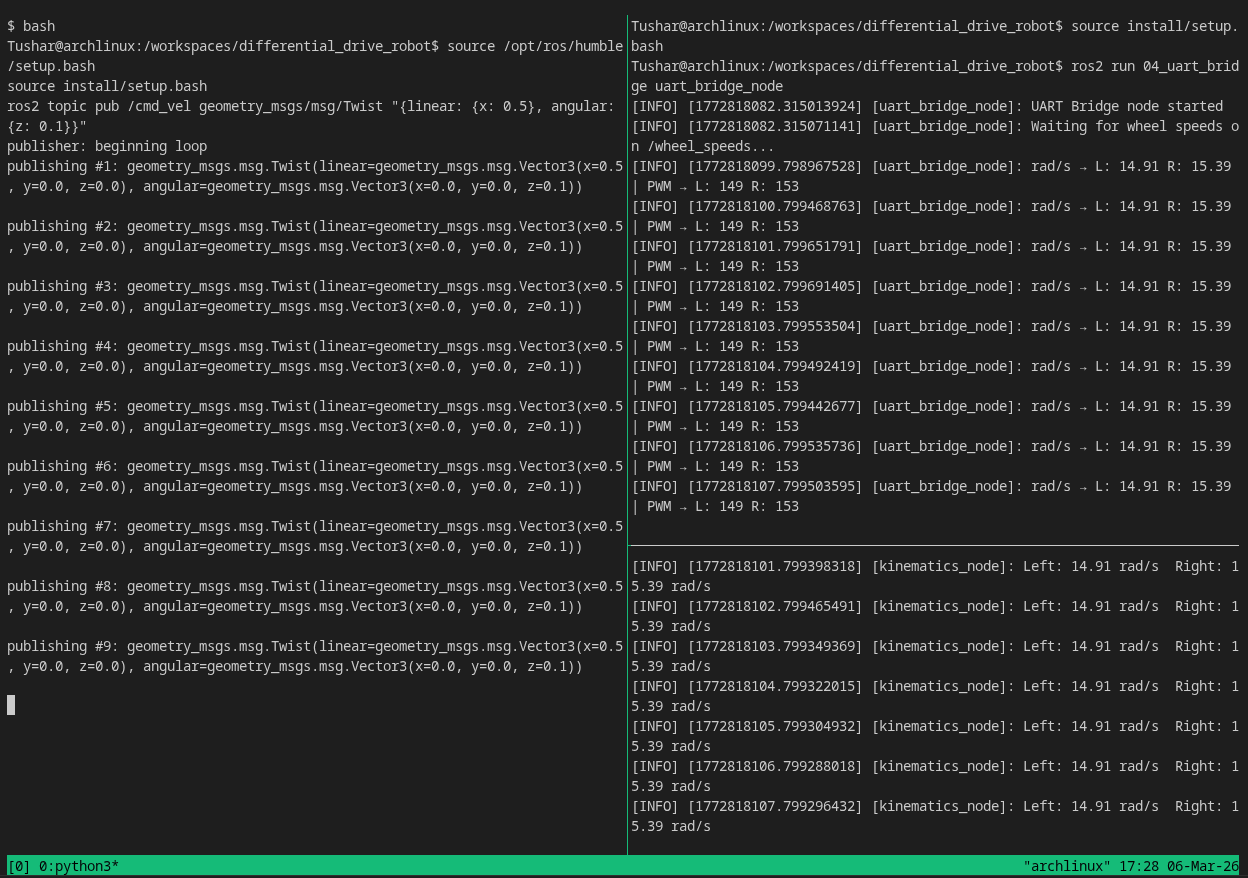
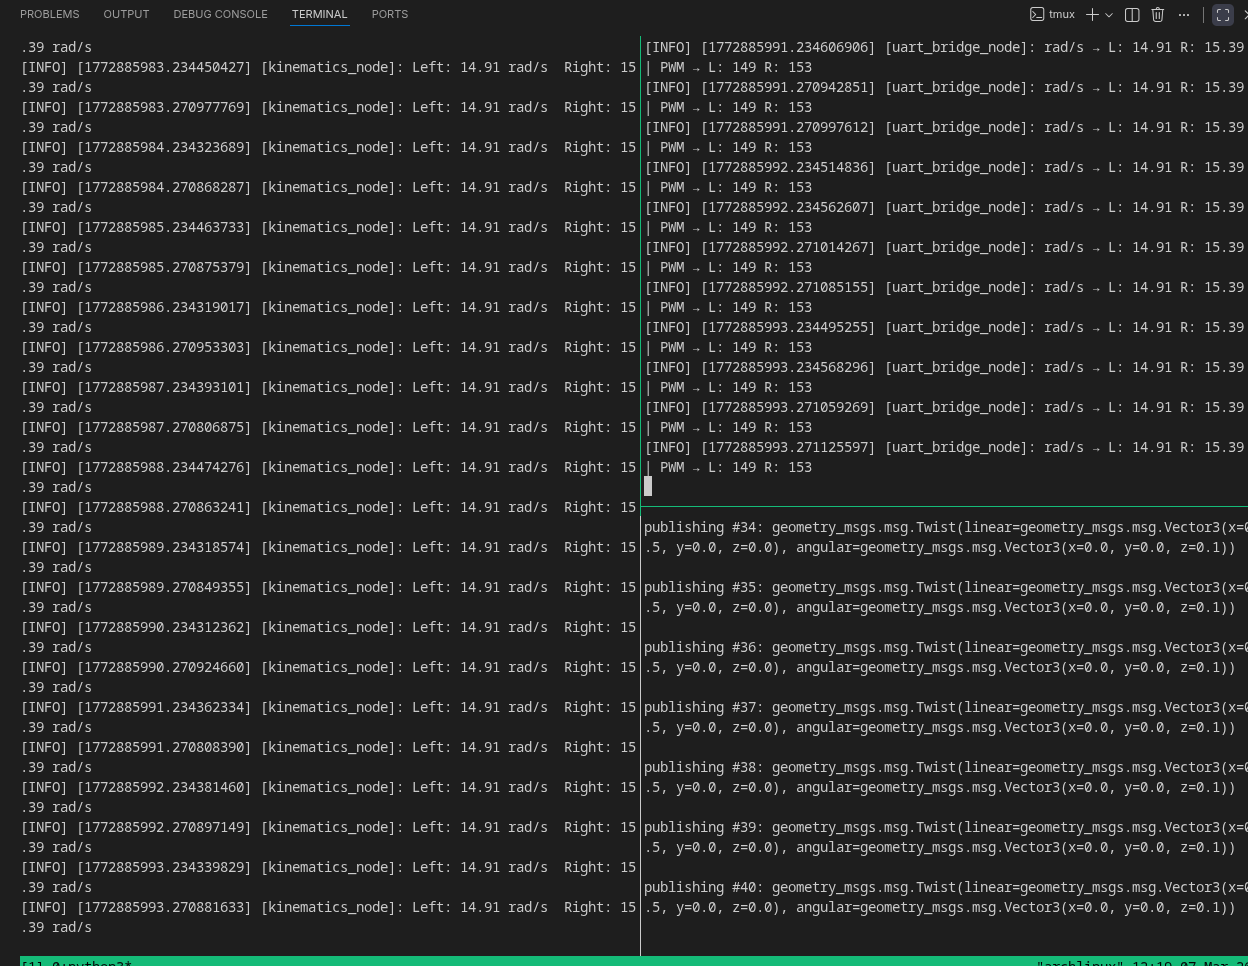
updated uart node

Changed region(s): [[0.0, 0.0, 1.0, 1.0], [0.9688, 0.4613, 1.0, 0.492]]

diff --git a/journal/04_uart_bridge/src/uart_bridge_node.cpp b/journal/04_uart_bridge/src/uart_bridge_node.cpp
@@ -1,6 +1,11 @@
 #include <rclcpp/rclcpp.hpp>
 #include <diff_drive_msgs/msg/coordinates.hpp>
 #include <memory>
+#include <cmath>
+
+#include <fcntl.h>
+#include <termios.h>
+#include <unistd.h>
 
 using std::placeholders::_1;
 
@@ -9,11 +14,41 @@ class UartBridgeNode : public rclcpp::Node
 public:
     UartBridgeNode() : Node("uart_bridge_node")
     {
+        this->declare_parameter("serial_port", "/dev/ttyACM0");
+        this->declare_parameter("baud_rate", 115200);
+        this->declare_parameter("simulation_mode", true);
+
+        serial_port_name_ = this->get_parameter("serial_port").as_string();
+        simulation_mode_  = this->get_parameter("simulation_mode").as_bool();
+
+        if (!simulation_mode_)
+        {
+            serial_fd_ = open(serial_port_name_.c_str(), O_RDWR | O_NOCTTY);
+            if (serial_fd_ < 0)
+            {
+                RCLCPP_ERROR(this->get_logger(), "Failed to open serial port: %s", serial_port_name_.c_str());
+            }
+            else
+            {
+                configure_serial(serial_fd_);
+                RCLCPP_INFO(this->get_logger(), "Serial port opened: %s", serial_port_name_.c_str());
+            }
+        }
+        else
+        {
+            RCLCPP_INFO(this->get_logger(), "Running in SIMULATION MODE - no serial port opened");
+        }
+
         subscription_ = this->create_subscription<diff_drive_msgs::msg::Coordinates>(
             "/wheel_speeds", 10, std::bind(&UartBridgeNode::wheel_speeds_callback, this, _1));
 
         RCLCPP_INFO(this->get_logger(), "UART Bridge node started");
-        RCLCPP_INFO(this->get_logger(), "Waiting for wheel speeds on /wheel_speeds...");
+    }
+
+    ~UartBridgeNode()
+    {
+        if (serial_fd_ >= 0)
+            close(serial_fd_);
     }
 
 private:
@@ -28,10 +63,46 @@ private:
         left_pwm  = std::clamp(left_pwm,  -255, 255);
         right_pwm = std::clamp(right_pwm, -255, 255);
 
+        uint8_t left_dir  = (left_pwm  >= 0) ? 1 : 0;
+        uint8_t right_dir = (right_pwm >= 0) ? 1 : 0;
+
+        uint8_t left_speed  = (uint8_t)std::abs(left_pwm);
+        uint8_t right_speed = (uint8_t)std::abs(right_pwm);
+
+        uint8_t buffer[5];
+        buffer[0] = 0xFF;
+        buffer[1] = left_dir;
+        buffer[2] = left_speed;
+        buffer[3] = right_dir;
+        buffer[4] = right_speed;
+
         RCLCPP_INFO(this->get_logger(),
-            "rad/s → L: %.2f R: %.2f | PWM → L: %d R: %d",
-            left, right, left_pwm, right_pwm);
+            "L: %.2f rad/s → dir=%d pwm=%d | R: %.2f rad/s → dir=%d pwm=%d",
+            left, left_dir, left_speed, right, right_dir, right_speed);
+
+        if (!simulation_mode_ && serial_fd_ >= 0)
+        {
+            write(serial_fd_, buffer, sizeof(buffer));
+        }
     }
+
+    void configure_serial(int fd)
+    {
+        struct termios tty;
+        tcgetattr(fd, &tty);
+        cfsetispeed(&tty, B115200);
+        cfsetospeed(&tty, B115200);
+        tty.c_cflag |= (CLOCAL | CREAD);
+        tty.c_cflag &= ~PARENB;
+        tty.c_cflag &= ~CSTOPB;
+        tty.c_cflag &= ~CSIZE;
+        tty.c_cflag |= CS8;
+        tcsetattr(fd, TCSANOW, &tty);
+    }
+
+    int serial_fd_ = -1;
+    bool simulation_mode_ = true;
+    std::string serial_port_name_;
 
     rclcpp::Subscription<diff_drive_msgs::msg::Coordinates>::SharedPtr subscription_;
 };

diff --git a/src/diff_drive_msgs/msg/coord_publisher.cpp b/src/diff_drive_msgs/msg/coord_publisher.cpp
@@ -1,0 +1,33 @@
+#include<chrono>
+#include<memory>
+#include<rclcpp/rclcpp.hpp>
+#include<diff_drive_msgs/msg/Coordinates.hpp>
+using namespace std::chrono_literals;
+class CoordPublisher:public rclcpp::Node
+{
+public:
+        CoordPublisher():Node("coord_publisher")
+        {
+            publisher_=this->create_publisher<diff_drive_msgs::msg::Coordinates>('coordinates',10);
+            timer_=this->create_wall_timer(500ms,[this]()){
+                auto msg = diff_drive_msgs::msg:::Coordinates();
+                msg.x=1.5;
+                msg.y=2.3;
+                msg.z=0.0;
+                RCLCPP_INFO(this->get_logger(),"Publishing: x = %.2f , y = %.2f, z = %.2f", msg.x,msg.y,msg.z);
+                publisher_->publish(msg);
+            };
+
+        }
+private:
+    rclcpp::Publisher<diff_drive_msgs::msg::Coordinates>::SharedPtr publisher_;
+    rclcpp::TimerBase::SharedPtr timer_;
+};
+
+int main(int argc, char * argv[])
+{
+    rclcpp::init(argc, argv);
+    rclcpp::spin(std::make_shared<CoordPublisher>());
+    rclcpp::shutdown();
+    return 0;
+}

diff --git a/src/diff_drive_msgs/msg/coord_subscriber.cpp b/src/diff_drive_msgs/msg/coord_subscriber.cpp
@@ -1,0 +1,31 @@
+#include <rclcpp/rclcpp.hpp>
+#include <diff_drive_msgs/msg/coordinates.hpp>
+#include <memory>
+
+using std::placeholders::_1;
+
+class CoordSubscriber : public rclcpp::Node
+{
+public:
+    CoordSubscriber() : Node("coord_subscriber")
+    {
+        subscription_ = this->create_subscription<diff_drive_msgs::msg::Coordinates>(
+            "coordinates", 10, std::bind(&CoordSubscriber::topic_callback, this, _1));
+    }
+
+private:
+    void topic_callback(const diff_drive_msgs::msg::Coordinates & msg) const
+    {
+        RCLCPP_INFO(this->get_logger(), "Received: x=%.2f y=%.2f z=%.2f", msg.x, msg.y, msg.z);
+    }
+
+    rclcpp::Subscription<diff_drive_msgs::msg::Coordinates>::SharedPtr subscription_;
+};
+
+int main(int argc, char * argv[])
+{
+    rclcpp::init(argc, argv);
+    rclcpp::spin(std::make_shared<CoordSubscriber>());
+    rclcpp::shutdown();
+    return 0;
+}